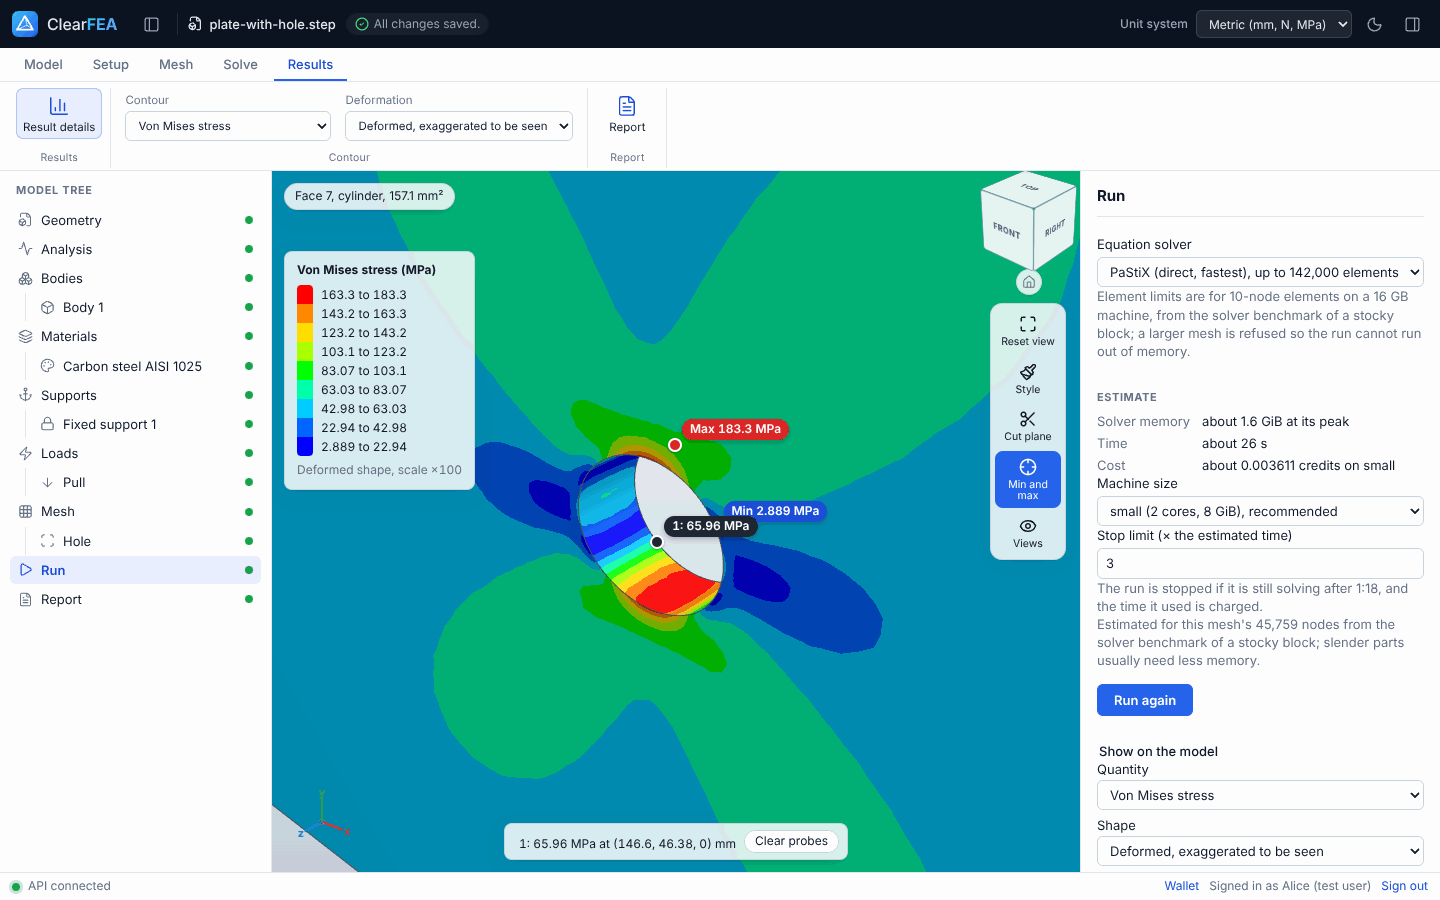
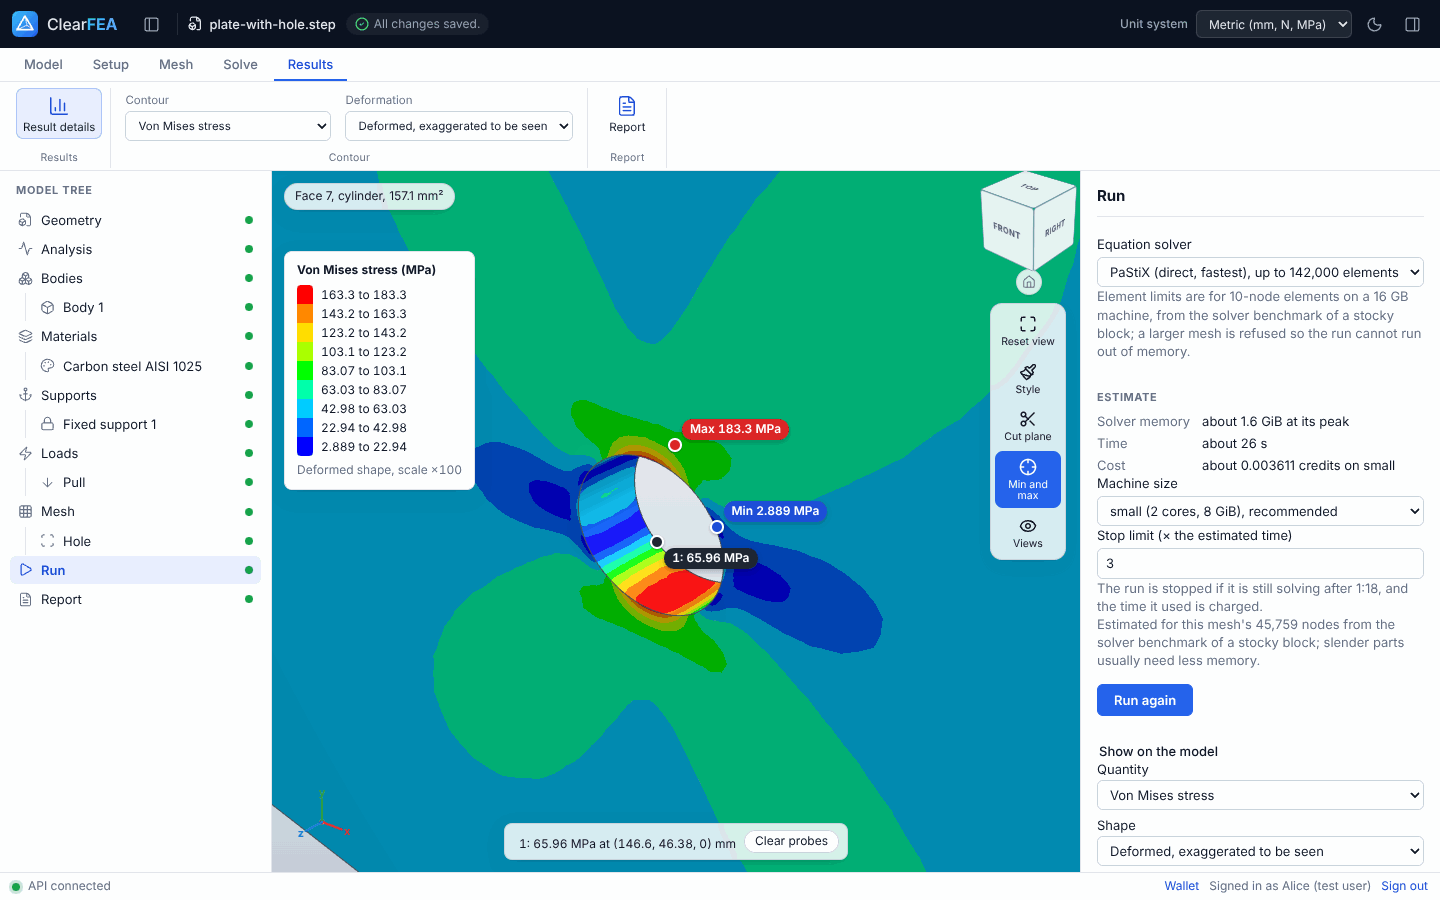
UI: keep marker labels apart and make the legend opaque
Close Min and Max markers (the safety factor on the tutorial plate) drew
their labels over each other, and strong contour colours showed through
the see-through legend as a smudge. Both would show in a demo. A label
that would overlap one placed before it now moves below or above its dot,
and the legend has a solid background. The guide's result screenshots are
retaken.

Claude-Session: https://claude.ai/code/session_01JEjS8vYuDrWmNq7QMrwaJq

Changed region(s): [[0.1875, 0.28, 0.3438, 0.56], [0.4375, 0.56, 0.5312, 0.6533]]

diff --git a/apps/web/src/viewer/ModelView.ts b/apps/web/src/viewer/ModelView.ts
@@ -893,14 +893,33 @@ export class ModelView {
     });
   }
 
-  /** Moves each marker's element over its vertex as drawn now; hides it behind the camera. */
+  /** Moves each marker's element over its vertex as drawn now; hides it behind the camera.
+   * A label that would overlap one placed before it moves below or above its dot instead, so
+   * the minimum and maximum stay readable where they lie close together. */
   private placeMarkers(): void {
+    const placed: { left: number; top: number; right: number; bottom: number }[] = [];
     for (const { marker, element } of this.markers) {
       const at = this.markerAt(marker);
       element.hidden = at === null;
       if (at === null) continue;
       element.style.left = `${at.x}px`;
       element.style.top = `${at.y}px`;
+      const label = element.firstElementChild;
+      if (!(label instanceof HTMLElement)) continue;
+      const width = label.offsetWidth;
+      const height = label.offsetHeight;
+      const offsets = [-24, 8, -24 - (height + 4), 8 + height + 4];
+      let top = offsets[0] ?? -24;
+      for (const offset of offsets) {
+        const box = { left: at.x + 9, top: at.y + offset, right: at.x + 9 + width, bottom: at.y + offset + height };
+        const clash = placed.some(
+          (other) => box.left < other.right && other.left < box.right && box.top < other.bottom && other.top < box.bottom,
+        );
+        top = offset;
+        if (!clash) break;
+      }
+      label.style.top = `${top}px`;
+      placed.push({ left: at.x + 9, top: at.y + top, right: at.x + 9 + width, bottom: at.y + top + height });
     }
   }
 

diff --git a/apps/web/src/styles.css b/apps/web/src/styles.css
@@ -26,6 +26,7 @@
   --viewport-top: #f8fafc;
   --viewport-bottom: #c4cedb;
   --glass: rgb(255 255 255 / 84%);
+  --glass-solid: #ffffff;
   --glass-border: rgb(15 23 42 / 10%);
   --input-bg: #ffffff;
   --row-hover: #f1f4f8;
@@ -61,6 +62,7 @@
   --viewport-top: #334155;
   --viewport-bottom: #0b111c;
   --glass: rgb(17 24 39 / 84%);
+  --glass-solid: #111827;
   --glass-border: rgb(255 255 255 / 10%);
   --input-bg: #0b1220;
   --row-hover: #172033;
@@ -1386,13 +1388,14 @@ fieldset.field {
   color: var(--muted);
 }
 
-/* The legend: a vertical colour bar under the chips. */
+/* The legend: a vertical colour bar under the chips. Opaque, since a contour's strong
+   colours behind a see-through panel read as a smudge. */
 .viewer-legend {
   position: absolute;
   left: 12px;
   top: 80px;
   padding: 10px 12px;
-  background: var(--glass);
+  background: var(--glass-solid);
   border: 1px solid var(--glass-border);
   border-radius: var(--radius);
   box-shadow: var(--shadow);

diff --git a/docs/PROGRESS.md b/docs/PROGRESS.md
@@ -46,6 +46,7 @@ Copy the task list for the current milestone from `PLAN.md` here when the milest
 
 - [x] UI stage 1: header, ribbon, icon tree, light and dark theme, view cube, axis triad, display styles, cut plane on the geometry and mesh (ADR-094)
 - [x] UI stage 2: refresh the user guide's screenshots for the new layout; links take the accent colour
+- [x] UI stage 3: Min, Max and probe labels move apart when their markers are close; the legend is opaque
 
 ### M8 Platform
 
@@ -171,7 +172,7 @@ Things only the maintainer can do.
 
 Written by the last session for the next one. Replace, do not append.
 
-> UI redesign stage 1 (2026-10-18): ADR-094. New `AppHeader`, `Ribbon`, `theme.ts` in `apps/web/src/layout/` and `ViewCube.tsx` in `viewer/`; `ModelView` gained `onCamera`, `fitView`, `setDisplayStyle` and, in the interactive viewer only, a cap and plane outline with a cut. The ribbon reuses App's existing handlers, so nothing it does is new behaviour. The tests' ModelView mocks gained the three new methods; unit tests that looked for the save state and unit system in the tree now look in the header. Watch for name clashes when adding ribbon buttons: Playwright's role queries match substrings, so a ribbon button must not contain a name the E-tests ask for (for example "Run", "Generate mesh", "Reset view", "Start setup"). The user guide's text is updated. Stage 2 retook its 19 screenshots by running the tutorial through `make dev` with the M9.3 Playwright script (kept with the pictures in the project's `ui-redesign/guide-shots/` folder; the self-hosted wallet one with `SELF_HOSTED=true`), quantised to 256 colours with Pillow's octree method, since median cut turned the legend's red brown. Small things seen in the pictures and left as they are: the Min and Max labels overlap when the two markers are close (safety factor on the plate), and the see-through legend shows a strong contour colour behind it as a smudge.
+> UI redesign stage 1 (2026-10-18): ADR-094. New `AppHeader`, `Ribbon`, `theme.ts` in `apps/web/src/layout/` and `ViewCube.tsx` in `viewer/`; `ModelView` gained `onCamera`, `fitView`, `setDisplayStyle` and, in the interactive viewer only, a cap and plane outline with a cut. The ribbon reuses App's existing handlers, so nothing it does is new behaviour. The tests' ModelView mocks gained the three new methods; unit tests that looked for the save state and unit system in the tree now look in the header. Watch for name clashes when adding ribbon buttons: Playwright's role queries match substrings, so a ribbon button must not contain a name the E-tests ask for (for example "Run", "Generate mesh", "Reset view", "Start setup"). The user guide's text is updated. Stage 2 retook its 19 screenshots by running the tutorial through `make dev` with the M9.3 Playwright script (kept with the pictures in the project's `ui-redesign/guide-shots/` folder; the self-hosted wallet one with `SELF_HOSTED=true`), quantised to 256 colours with Pillow's octree method, since median cut turned the legend's red brown. Stage 3 fixed two things those pictures showed: marker labels that would overlap now move below or above their dot (`placeMarkers` in `ModelView.ts`, tried in order: above, below, further above, further below), and the legend is opaque (`--glass-solid`), since a strong contour colour showed through the see-through panel as a smudge.
 >
 > M9.1 (2026-10-17): ADR-093. A model at every solver's element limit now runs on `make dev`: `cd verification && uv run --project ../worker --locked python -m harness.limits` (against :8787; `--out DIR`, case keys such as `pastix-2` to pick) runs the M2.11 block at each limit and prints the table below. Two things broke and are fixed: job uploads over 200 MiB were refused (both iterative solvers' 10-node limit write a 250 MB `results.frd`; the modal 10-node limit about 1 GB), now streamed and capped at 5 GiB; and after an upload of about 1 GB, wrangler dev drops the next request, so the worker now retries a transfer twice on a 5xx or a lost connection (wrangler's own proxy retries GETs, not PUTs). Surprising: Gmsh cannot mesh the block between 136,092 and 144,794 elements, nor between 440,406 and about 461,400, so the PaStiX 10-node and the 461,000 limits were run at 96 percent. The time estimate was 1.3 to 2.2 times the measured time on every limit (iterative scaling 10-node most), the safe side; the solver's peak memory was within 3 percent of the estimate above 2 GiB and within 7 percent below. The sandbox kept 1.4 GiB free at worst (the modal 10-node run, 10.3 GiB solver peak). Viewer screenshots of the 1.1-million-element run (results, cut plane) and of the modal run are in the project's `m9.1/` folder; drawing speed on the laptop is M9.2's.
 >
@@ -401,6 +402,7 @@ Newest first. One entry per session: date, what was done, what was learned.
 
 ### 2026-10-18
 
+- UI redesign stage 3: marker labels kept apart, opaque legend; the guide's five result screenshots retaken.
 - UI redesign stage 2: the user guide's screenshots retaken on the new layout (tutorial values unchanged: 183.3 MPa, safety factor 1.35); links in the accent colour.
 - UI redesign stage 1 (ADR-094): header, ribbon, icon tree, light and dark theme, floating viewer tools with a view cube and axis triad, display styles, and a cut plane that sections the geometry and mesh as well as results. Learned: a checkbox drawn as a tool must lie over the whole tool (opacity 0) so Playwright's click lands on it.
 
